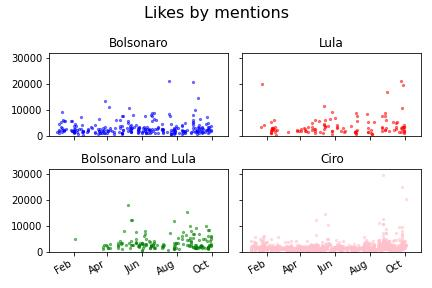
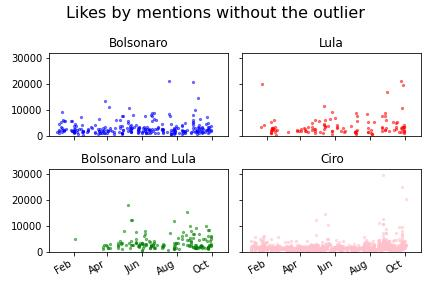
add README and start setting the mean

Changed region(s): [[0.1505, 0.0, 0.8426, 0.0625]]

diff --git a/twitter_analytics_-_ciro_gomes.py b/twitter_analytics_-_ciro_gomes.py
@@ -7,10 +7,75 @@ import pandas as pd
 import matplotlib.pyplot as plt
 import matplotlib.dates as mdates
 import datetime
-
+import seaborn as sns
 
 
 df = pd.read_excel(r'df_tweets.xlsx')
+
+
+# separate dates and time ???????????????????????? require?
+df['dates'] = pd.to_datetime(df['date']).dt.date
+df['time'] = pd.to_datetime(df['date']).dt.time
+
+
+
+
+df['n_tweet'] = 1
+
+df['date'] = pd.to_datetime(df['date'])
+
+
+tweets_by_day = df.resample('D', on='date')['n_tweet'].sum()
+tweets_by_week = df.resample('W', on='date')['n_tweet'].mean() # REQUIRE: SET MEAN
+tweets_by_month = df.resample('M', on='date')['n_tweet'].sum()
+
+
+tweets_by_day = tweets_by_day.to_frame()
+tweets_by_week = tweets_by_week.to_frame()
+tweets_by_month = tweets_by_month.to_frame()
+
+
+sns.lineplot(
+    data=tweets_by_day,
+    x= 'date',
+    y= 'n_tweet'
+    )
+
+
+sns.lineplot(
+    data=tweets_by_week,
+    x= 'date',
+    y= 'n_tweet',
+    color='red'
+    ).set(title='Tweets by day')
+
+
+sns.lineplot(
+    data=tweets_by_month,
+    x= 'date',
+    y= 'n_tweet',
+    color="green"
+    )
+
+
+plt.xticks(rotation=45)
+plt.ylabel("Number of Tweets")
+plt.xlabel("")
+# change months to initials
+# set line with avarenge
+# set margin ?
+
+
+# ax.xaxis.set_major_formatter(mdates.DateFormatter('%b'))
+
+# SAVE PLOT
+#plt.savefig("twitter_analytic_ciro_gomes_tweets_by_day.jpg")
+
+
+
+
+
+
 
 
 
@@ -18,30 +83,42 @@ df = pd.read_excel(r'df_tweets.xlsx')
 df['tweet'] = df['tweet'].str.lower()
 
 
+
+column_names = ["date", "user", "tweet", "hashtags", 
+                "retweets", "replys", "likes", "quotes"]
+
+df_both_candidates = pd.DataFrame(columns=column_names)
+df_bolsonaro = pd.DataFrame(columns=column_names)
+df_lula = pd.DataFrame(columns=column_names)
+df_ciro = pd.DataFrame(columns=column_names)
+
+for index, row in df.iterrows():
     
-def to_plot(df, ylimit):
+    if ("lula" in row['tweet']) and ("bolsonaro" in row['tweet']):
+        df_both_candidates.loc[len(df_both_candidates.index)] = row
+        df_both_candidates['candidate'] = "Bolsonaro and Lula"
+
+    elif "lula" in row['tweet']:
+        df_lula.loc[len(df_lula.index)] = row
+        df_lula['candidate'] = "Lula"
     
-    column_names = ["date", "user", "tweet", "hashtags", 
-                    "retweets", "replys", "likes", "quotes"]
+    elif "bolsonaro" in row['tweet']:
+        df_bolsonaro.loc[len(df_bolsonaro.index)] = row
+        df_bolsonaro['candidate'] = "Bolsonaro"
     
-    df_both_candidates = pd.DataFrame(columns=column_names)
-    df_bolsonaro = pd.DataFrame(columns=column_names)
-    df_lula = pd.DataFrame(columns=column_names)
-    df_ciro = pd.DataFrame(columns=column_names)
+    elif "ciro" in row['tweet']:
+        df_ciro.loc[len(df_ciro.index)] = row
+        df_ciro['candidate'] = "Ciro"
+
+
+df_candidates = pd.concat([df_both_candidates,
+          df_lula,
+          df_bolsonaro,
+          df_ciro],
+          ignore_index=True)
+
     
-    for index, row in df.iterrows():
-        
-        if ("lula" in row['tweet']) and ("bolsonaro" in row['tweet']):
-            df_both_candidates.loc[len(df_both_candidates.index)] = row
-    
-        elif "lula" in row['tweet']:
-            df_lula.loc[len(df_lula.index)] = row
-        
-        elif "bolsonaro" in row['tweet']:
-            df_bolsonaro.loc[len(df_bolsonaro.index)] = row
-        
-        elif "ciro" in row['tweet']:
-            df_ciro.loc[len(df_ciro.index)] = row
+def to_plot(df, ylimit, title):
     
     # TO IMPROVE: change x and y varaibles structure
     
@@ -67,12 +144,12 @@ def to_plot(df, ylimit):
     axs[1, 1].scatter(x, y, color='pink', alpha=0.5, marker=".", s=20)
     axs[1, 1].set_title('Ciro')
     
-    fig.suptitle('Likes by mentions', fontsize=16)
+    fig.suptitle(title, fontsize=16)  # TO IMPROVE
     fig.autofmt_xdate()
     
     if ylimit == 28000:
         for ax in axs.flat:
-            ax.set_xlim([datetime.date(2022, 8, 25), datetime.date(2022, 10, 8)])
+            ax.set_xlim([datetime.date(2022, 8, 31), datetime.date(2022, 10, 3)])
             ax.xaxis.set_major_formatter(mdates.DateFormatter('%d'))
             ax.xaxis.set_major_locator(mdates.DayLocator(interval=5))
             
@@ -86,8 +163,13 @@ def to_plot(df, ylimit):
     plt.tight_layout()
         
 
+
+
+
+# GENERAL PLOT
 ylimit = 50000
-to_plot(df, ylimit)
+title = 'Likes by mentions'
+to_plot(df, ylimit, title)
 
 plt.savefig("twitter_analytic_election_ciro_gomes_likes_by_mentions_with_outlier.jpg")
         
@@ -95,11 +177,12 @@ plt.savefig("twitter_analytic_election_ciro_gomes_likes_by_mentions_with_outlier
 
 
 
-# TO IMPROVE: cut outlier
+# WITHOUT OUTLIER
 df_withoutlier = df.loc[df['likes'] < 40000]
 
 ylimit = 32000
-to_plot(df_withoutlier, ylimit)
+title = 'Likes by mentions without the outlier'
+to_plot(df_withoutlier, ylimit, title)
 
 plt.savefig("twitter_analytic_election_ciro_gomes_likes_by_mentions.jpg")
      
@@ -107,19 +190,44 @@ plt.savefig("twitter_analytic_election_ciro_gomes_likes_by_mentions.jpg")
 
 
 
-# TO IMPROVE: limit data from october
+# ONLY OCTOBER
 start_date = "2022-09-01"
 end_date = "2022-10-03"
 
 period = (df['date'] >= start_date) & (df['date'] <= end_date)
 df_october = df.loc[period]
 
-
 ylimit = 28000
-to_plot(df_october, ylimit)
+title = 'Likes by mentions at the month before the first election round of 2022'
+to_plot(df_october, ylimit, title)
 
 plt.savefig("twitter_analytic_election_ciro_gomes_likes_by_mentions_october.jpg")
 
+
+
+
+
+
+# DONUT PLOTS
+
+# TO IMPROVE: select colors
+# TO IMPROVE: set labels
+# TO IMPROVE: set percents
+colores = {
+    "Lula":"red",
+    "Bolsonaro":"blue",
+    "Bolsonaro and Lula":"purple"
+    }
+df_without_ciro = df_candidates.loc[df_candidates['candidate'] != "Ciro"]
+total_citation_candidates = df_without_ciro['candidate'].value_counts()
+plt.pie(total_citation_candidates,
+        wedgeprops =colores)
+my_circle = plt.Circle( (0,0), 0.7, color='white')
+p = plt.gcf()
+p.gca().add_artist(my_circle)
+
+plt.suptitle("Amount of Citations")
+plt.show()
 
 
 

diff --git a/README.md b/README.md
@@ -1,0 +1,16 @@
+
+# Twitter Scrape Project
+
+<p>Snscrape is used to access Twitter data, obtaining dates, likes, hashtags, retweets, users, among other information.</p>
+
+<p>The information is transformed into a dataframe and saved.</p>
+
+<p>From this information, several analyzes are possible: from the frequency of interactions to the engagement of each post, from the reach to the impact of the message.</p>
+
+<p>In this sense, we extracted the tweets of the candidate for the presidency of Brazil in the 2022 elections, Ciro Gomes, who ended the first round of the election in fourth position.</p>
+
+<p>The target time interval was from 01/01/2022 to 10/30/2022 (date of the end of the second round of the election for President of the Republic).</p>
+
+
+
+
